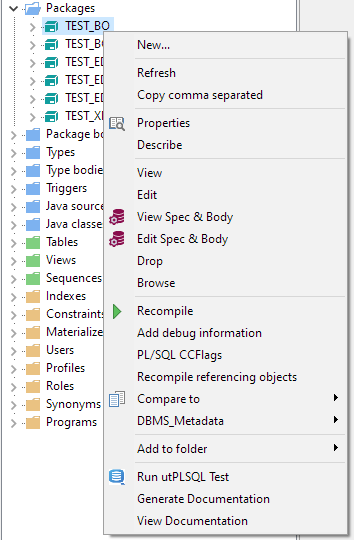
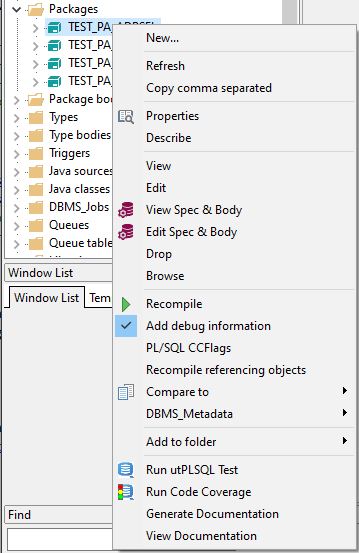
Update README.md and added new screenshots

Changed region(s): [[0.0, 0.0, 1.0, 1.0]]

diff --git a/README.md b/README.md
@@ -2,19 +2,19 @@
 
 The utPLSQL Plugin integrates [utPLSQL](https://utplsql.org) with [Allround Automations PL/SQL Developer](https://www.allroundautomations.com/products/pl-sql-developer/).
 
-## Running Tests
+## Running Tests and Code Coverage
 
-The plugin adds a Button to the Tools ribbon to execute all tests of the current user.
+The plugin adds a Button to the Tools ribbon to execute all tests of the current user or run code coverage.
 
 ![img.png](screenshots/tools_ribbon.png)
 
-In the object browser on Packages or Users there is a context menu entry to run the tests of either the packages or the users.
+In the object browser on Packages or Users there is a context menu entry to run the tests or code coverage of either the packages or the users.
 
 ![img.png](screenshots/context_menu.png)
 
 ## Viewing Results
 
-The results are opened in a new window.
+The results are opened in a new window. If you've chosen code coverage the coverage report will be opened in the default browser. 
 
 ![img.png](screenshots/result_window.png)
 
